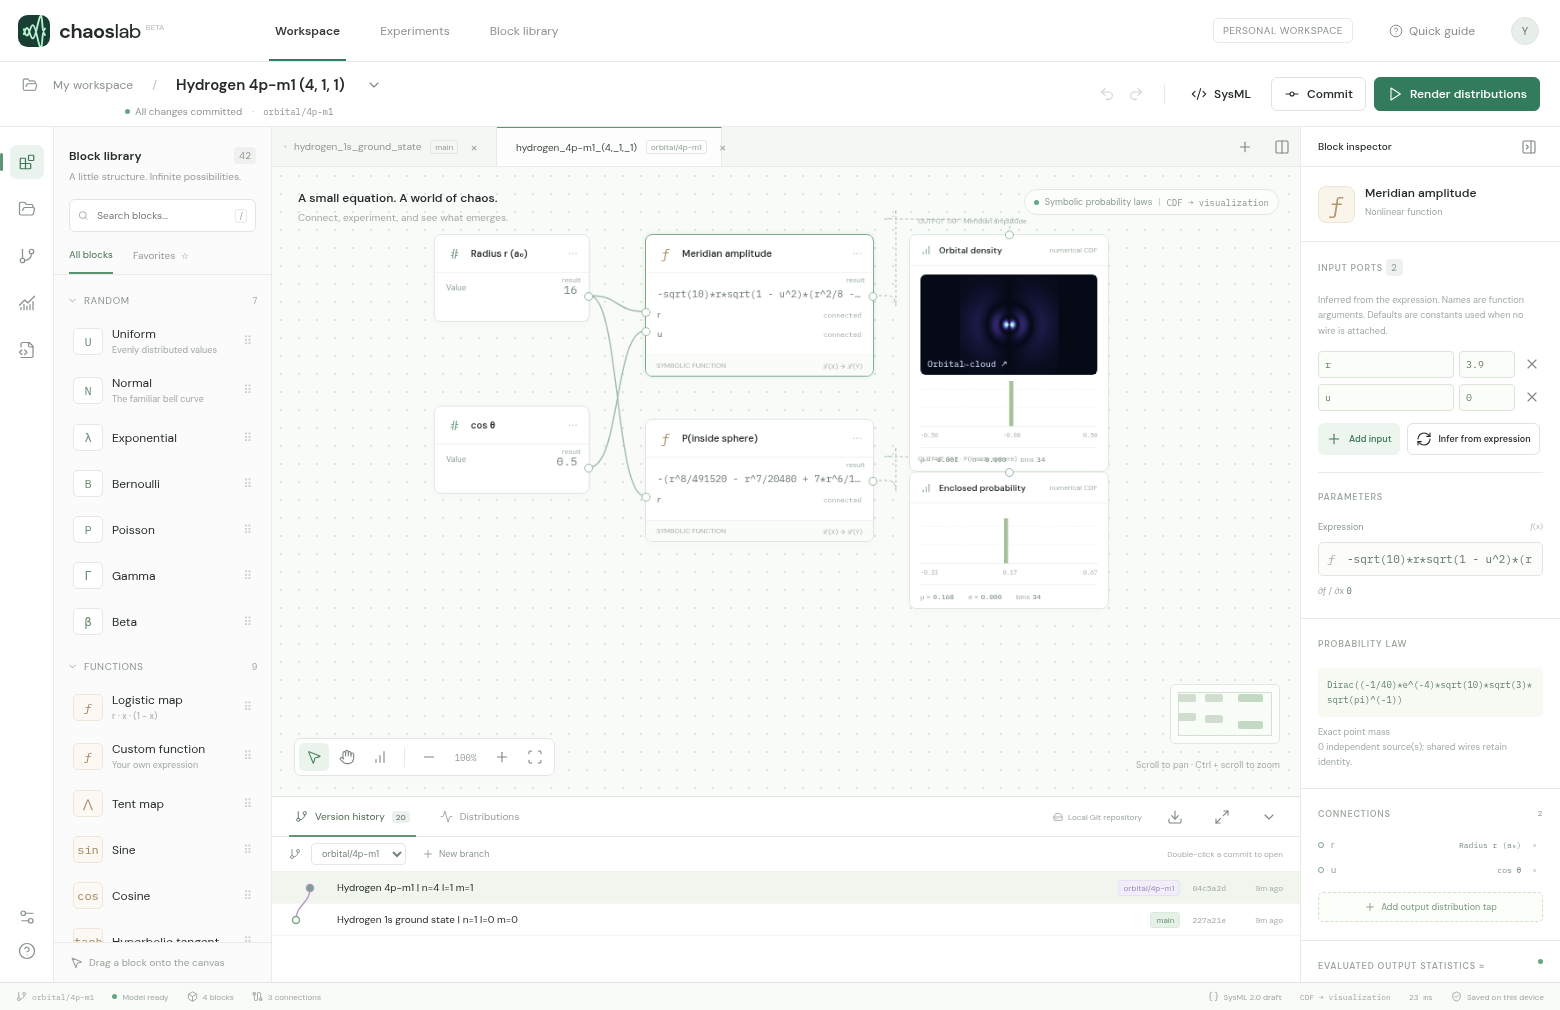
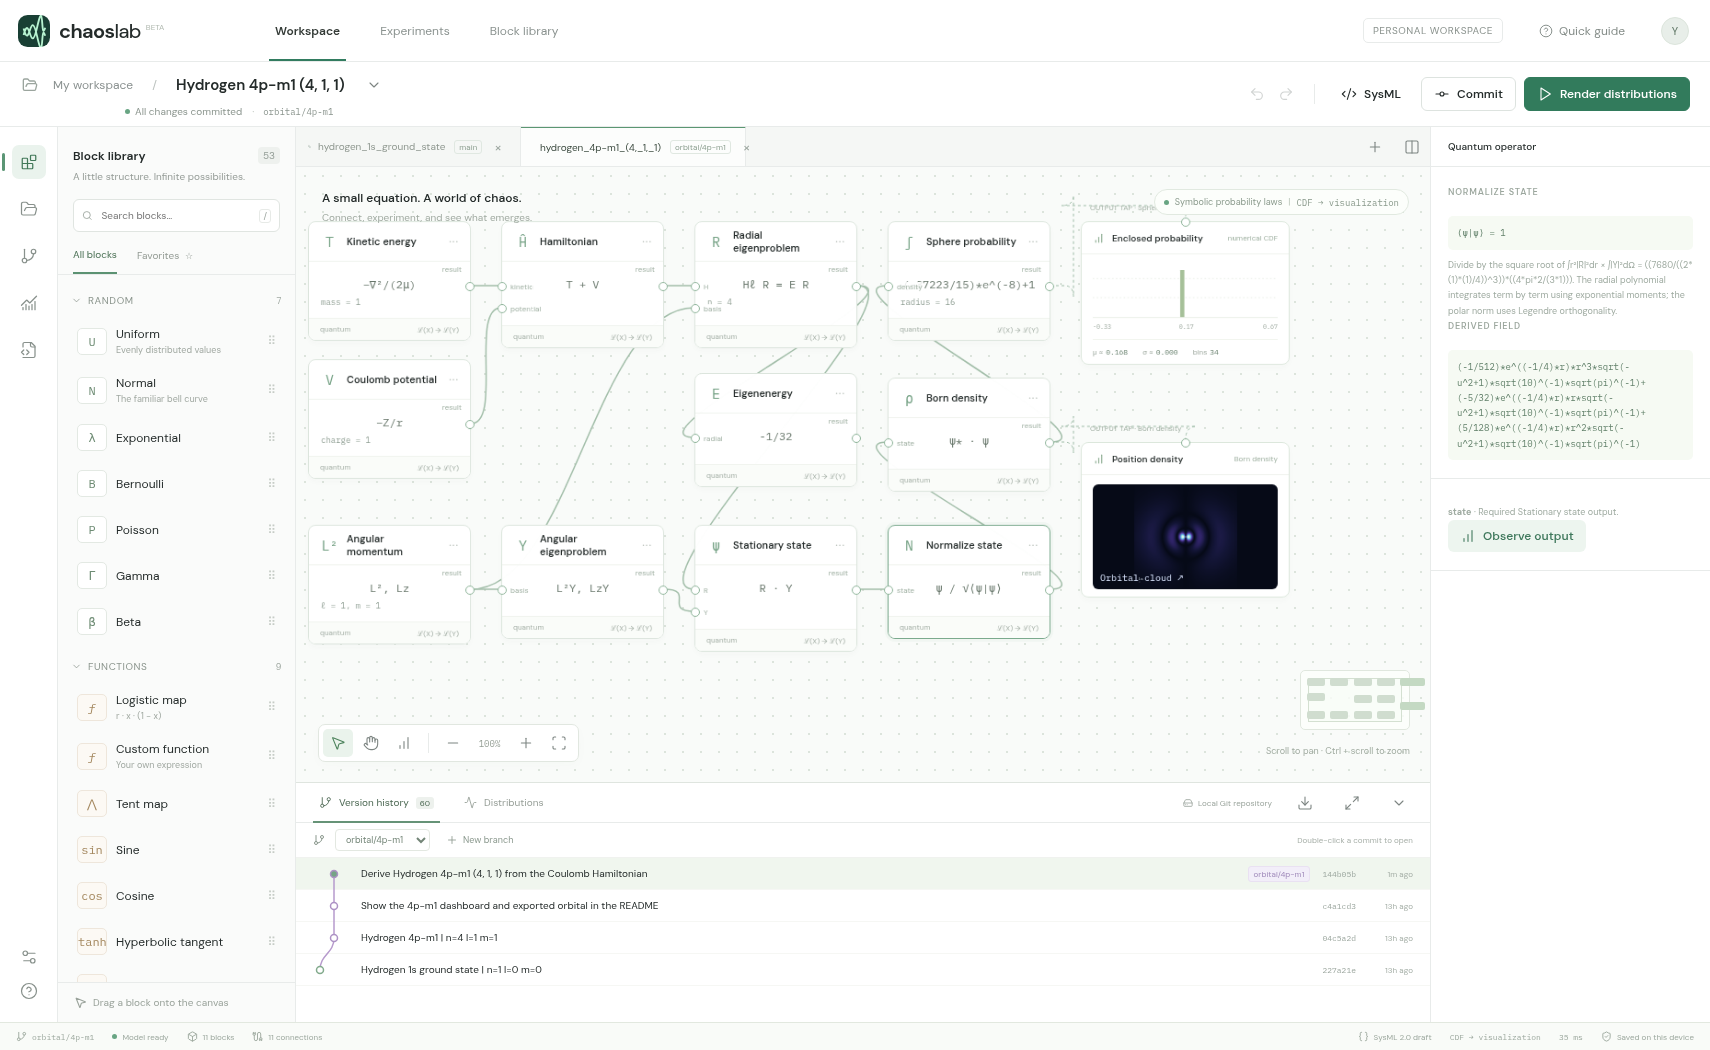
Show the derived state and operator graph for orbital/4p-m1

diff --git a/README.md b/README.md
@@ -4,6 +4,8 @@ Open **Version history** in Chaos Lab to explore the 20 hydrogen designs in this
 
 ## Hydrogen 4p (n = 4, ℓ = 1, m = 1)
 
+The connected Hamiltonian and eigenstate solvers give $E=-1/32$ Hartree for this state.
+
 ![Chaos Lab dashboard with the 4p model, m = 1, open in version history](dashboard.png)
 
 Radial nodes: 2. Polar nodes: 0. Plot half-width: 32 Bohr radii.
@@ -22,7 +24,7 @@ cd hydrogen_wavefunction
 python studio.py
 ```
 
-On Windows you can use `py studio.py`. On Linux you can use `python3 studio.py`. The first launch downloads the pinned Chaos Lab browser build. Double-click a commit to open it in a tab. Open another and use **Split view** to compare them. **Orbital cloud ↗** opens the spatial plots. The launcher reads the Git objects from your clone, including origin branches. Run `git fetch origin` and restart the launcher to load new remote branches.
+On Windows you can use `py studio.py`. On Linux you can use `python3 studio.py`. The first launch downloads the pinned Chaos Lab browser build. Double-click a commit to open it in a tab. Open another and use **Split view** to compare them. **Orbital cloud ↗** opens the spatial plots. The launcher reads the Git objects from your clone, including origin branches. For an existing clone, update the checked-out branch with `git pull --ff-only`, fetch the other branches with `git fetch origin`, and restart the launcher. Double-click the latest commit for the design you want to explore.
 
 To compare states with the same radial law, open `orbital/2p-m0` and `orbital/2p-m1`. At the same radius their enclosed-probability probes agree. The first slice is dark on the equatorial plane, while the second is dark along the polar axis.
 
@@ -32,7 +34,17 @@ To compare states with the same radial law, open `orbital/2p-m0` and `orbital/2p
 
 Branch names encode `(n, ℓ, m)`. For example, `orbital/3d-m1` is `(3,2,1)`. Each snapshot includes the editable graph, its compiled symbolic representation, and its SysML text. Each excited-state branch also contains a reference cross-section.
 
-Coordinates are in Bohr radii. These are normalized fixed-proton, nonrelativistic spatial eigenstates in the complex spherical-harmonic basis. For a fixed m the azimuthal phase is exp(i m φ), so probability density is axially symmetric. The graph evaluates the real meridian amplitude at φ = 0 using radius r and u = cos θ. Its square is probability per unit volume. The sphere probe integrates the radial Born law. The field tap sweeps the same amplitude expression for the x–z slice and its projected detections. Detections are drawn for display from a numerical grid of the final density including the r² volume factor. Brightness and plotting windows are scaled per orbital.
+## How the graph derives this orbital
+
+1. **Kinetic energy** and **Coulomb potential** supply the relative-coordinate operators in atomic units. Their wires feed **Hamiltonian**, which constructs $H=-\nabla^2/(2\mu)-Z/r$. The default is a fixed proton, $Z=\mu=1$.
+2. **Angular momentum** selects the joint eigenvalues of $L^2$ and $L_z$. **Radial eigenproblem** uses that angular eigenvalue in the centrifugal term. Regularity at the origin, decay at infinity, and radial-series termination give the polynomial and energy. **Angular eigenproblem** constructs the polar polynomial by Rodrigues differentiation and includes the phase $e^{im\phi}$.
+3. **Stationary state** multiplies the separated basis functions. **Normalize state** computes their norm with the spherical volume measure. **Born density** takes the squared modulus of the normalized state. **Sphere probability** integrates that density to the probe radius.
+4. Select a block to inspect its equation and derivation. Change **Nuclear charge** from 1 to 2. The energy becomes four times more negative and the orbital contracts by a factor of two. The plot rescales with the orbital, so use its Bohr-radius scale bar to see the change.
+
+The central slice evaluates the final density in the x–z plane. Projected detections sample the final density on a finite radial and angular grid with the spherical volume factor. Coordinates use Bohr radii and energy uses Hartree.
+
+The branch stores the operator graph in `model.json`, its derived fields and scalar laws in `model.symbolic.json`, and the block connections in `model.sysml`. With SymPy installed, run `python tools/verify_state.py` in a checkout of this branch to check the eigenvalue equations, normalization, radial reference solution and sphere integral.
+
 
 | n | ℓ | m | Design branch |
 |---|---|---|---|
